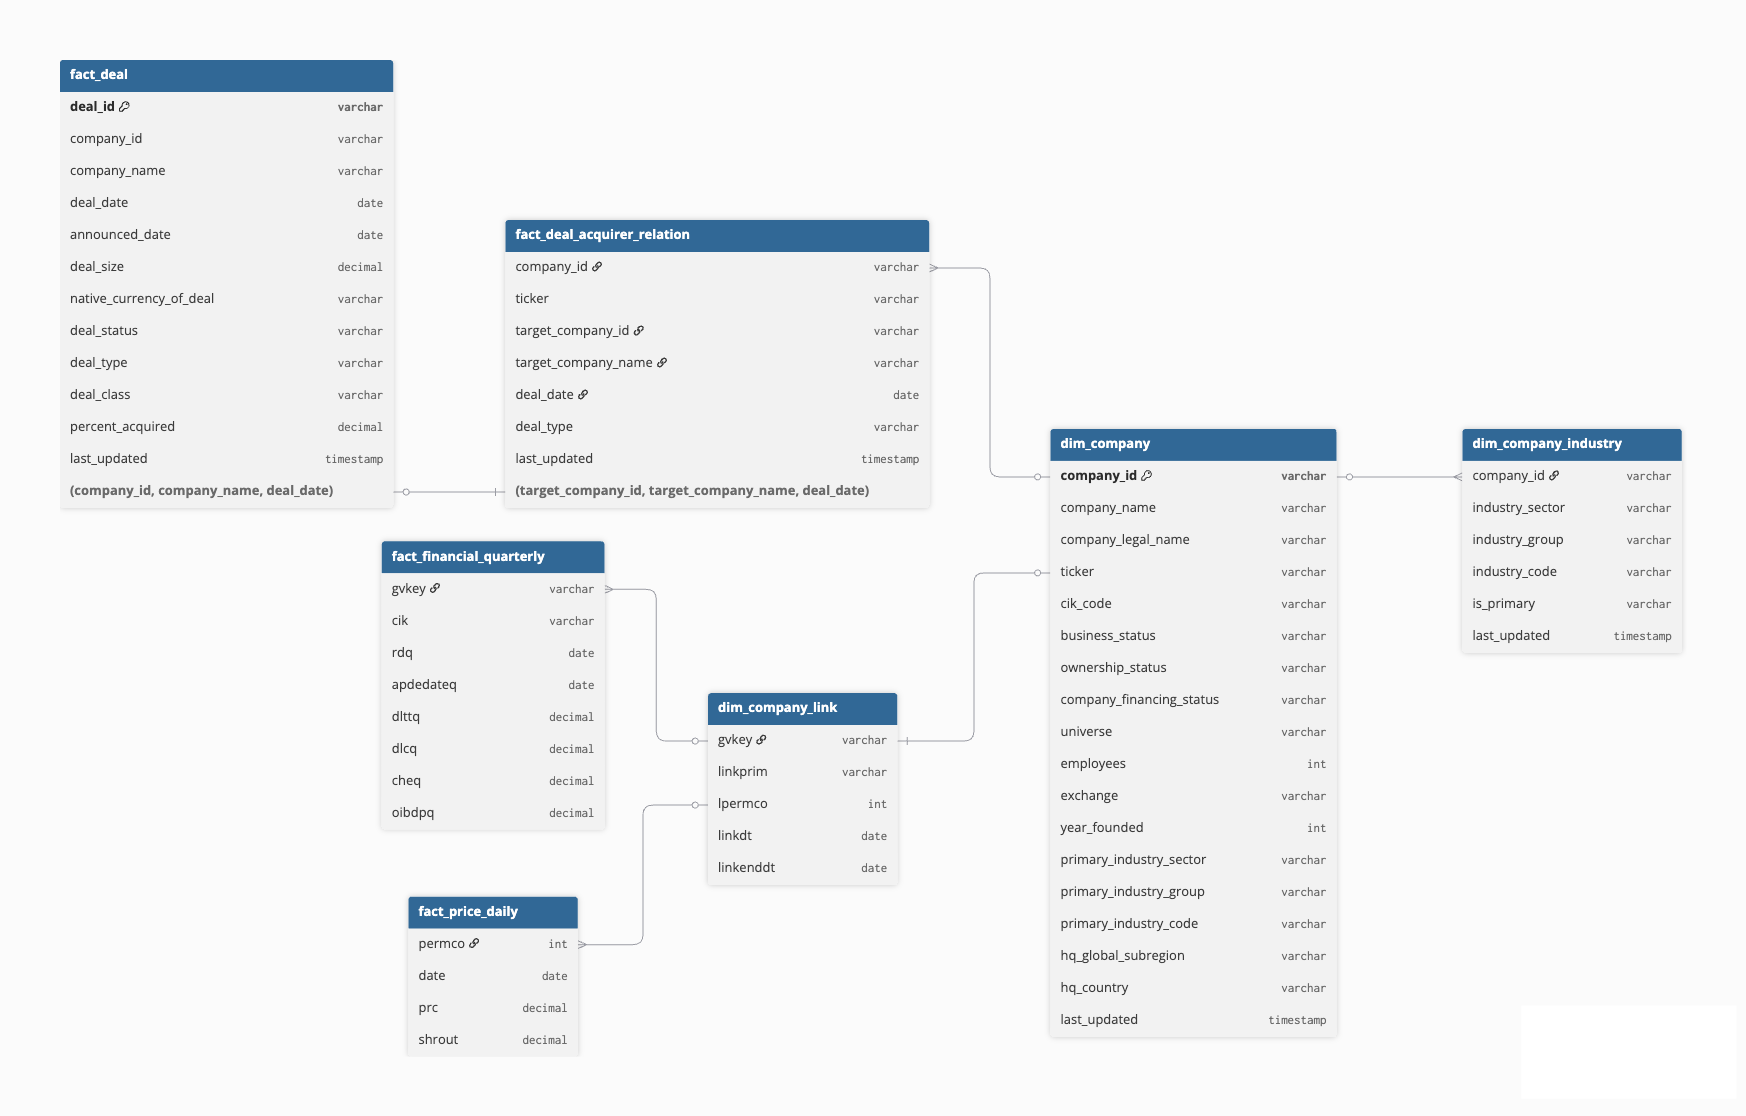
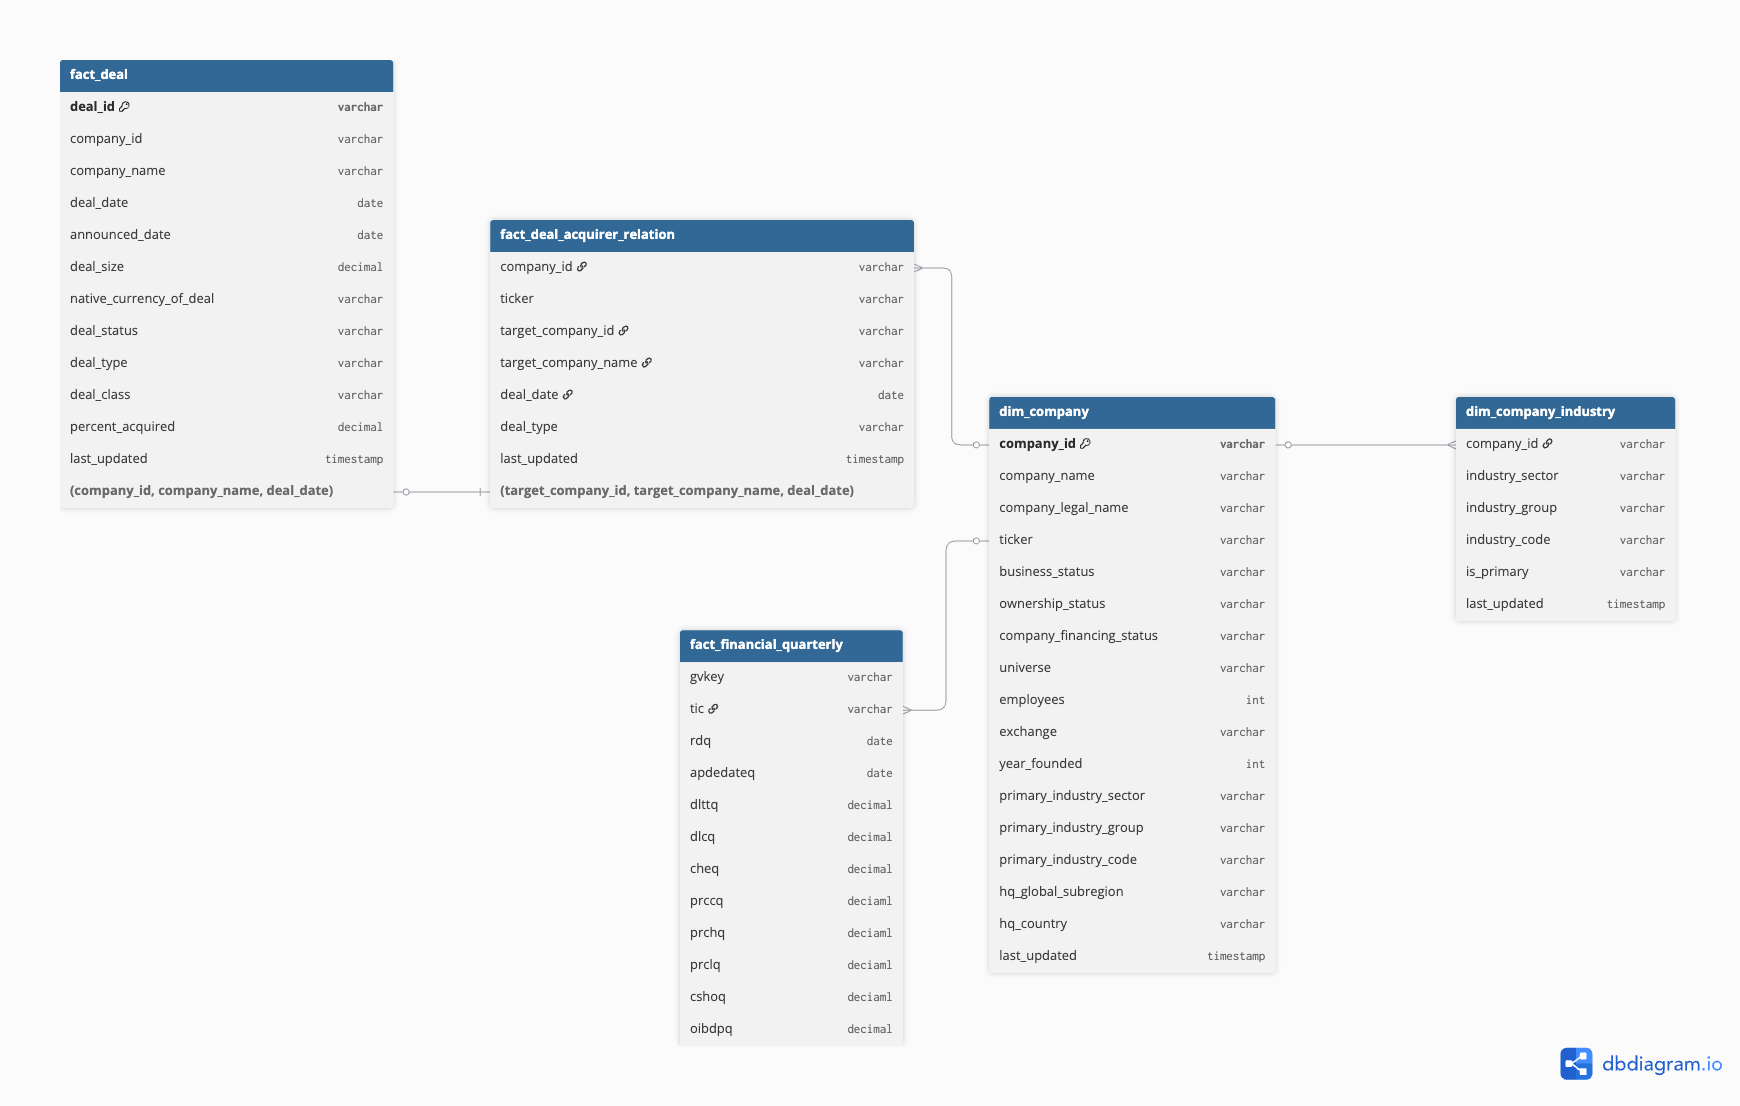
bronze schema changes (only using data one quarter before)

diff --git a/doc/schema_design_bronze_layer.md b/doc/schema_design_bronze_layer.md
@@ -105,25 +105,9 @@ We are targeting **Mergers & Acquisitions (M&A)** occurring between **2000-01-01
 | `industrycode` | Code  |
 | `isprimary` | Flag for primary industry |
 
----
 
-## 5. Table: `dim_company_link` (Linking Table)
-* **Source:** WRDS / CRSP / CRSP Compustat Merged / Compustat CRSP Link 
-* **WRDS Table Name:** `crsp_a_ccm.ccmxpf_lnkhist` 
-* **Link:** https://wrds-www.wharton.upenn.edu/pages/get-data/center-research-security-prices-crsp/annual-update/crspcompustat-merged/compustat-crsp-link/  
-* **Purpose:** Bridge table to link Compustat (`gvkey`) and CRSP (`lpermco`).
 
-| Field | Description |
-| :--- | :--- |
-| `gvkey` | Compustat Key |
-| `lpermco` | CRSP Permanent Company ID |
-| `linkprim` | Primary Link Flag. Filter: `IN ('P', 'C')`|
-| `linkdt` | Link Start Date. Ensure: `announceddate >= linkdt` |
-| `linkenddt` | Link End Date. Ensure: `announceddate <= linkenddt` (or IS NULL) |
-
----
-
-## 6. Table: `fact_financial_quarterly` (Fundamentals)
+## 5. Table: `fact_financial_quarterly` (Fundamentals)
 * **Source:** Compustat - Capital IQ / North America / Fundamentals Quarterly 
 * **WRDS Table Name:** `comp_na_daily_all.fundq`  
 * **Link:** https://wrds-www.wharton.upenn.edu/pages/get-data/compustat-capital-iq-standard-poors/compustat/north-america-daily/fundamentals-quarterly/  
@@ -138,19 +122,9 @@ We are targeting **Mergers & Acquisitions (M&A)** occurring between **2000-01-01
 | `dlttq` | Long-Term Debt - Total |
 | `dlcq` | Debt in Current Liabilities |
 | `cheq` | Cash and Short-Term Investments |
+| `prccq` | Price Close - Quarter|
+| `prchq` |  (prchq) Price High - Quarter|
+| `prclq` |  (prclq) Price Low - Quarter|
+| `cshoq` | Common Shares Outstanding|
 | `oibdpq` | Operating Income Before Depreciation (EBITDA) |
 
----
-
-## 7. Table: `fact_price_daily` (Market Data)
-* **Source:** WRDS / CRSP / Daily Stock File 
-* **WRDS Table Name:** `crsp_a_stock.dsf`  
-* **Link:** https://wrds-www.wharton.upenn.edu/pages/get-data/center-research-security-prices-crsp/annual-update/stock-security-files/daily-stock-file/  
-* **Purpose:** To calculate **Market Capitalization** exactly at *t-5* and *t+30*.
-
-| Field | Description |
-| :--- | :--- |
-| `permco` | CRSP Company ID |
-| `date` | Calendar Date. Locate `announceddate - 5 days` and `announceddate + 30 days`  |
-| `prc` | Closing Price |
-| `shrout` | Shares Outstanding (in thousands) |
